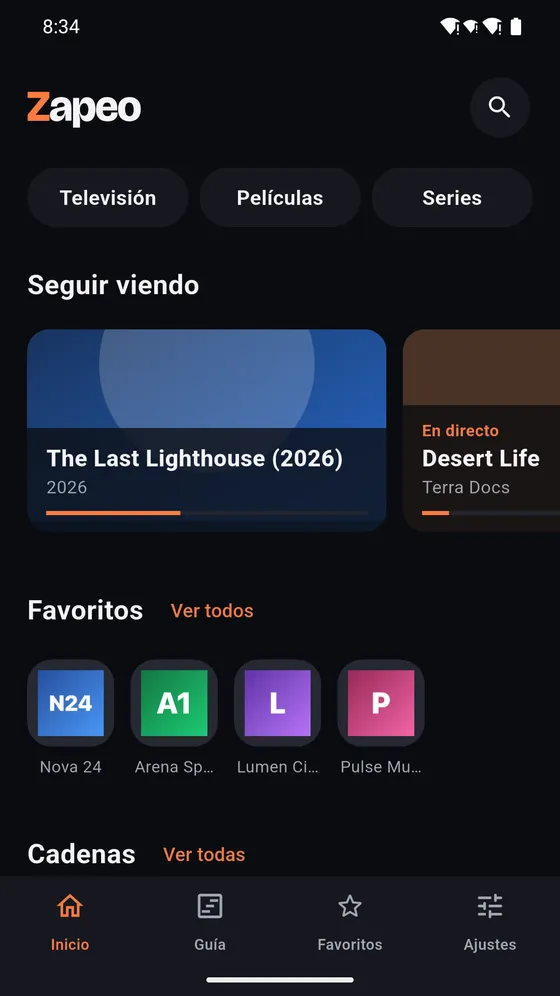
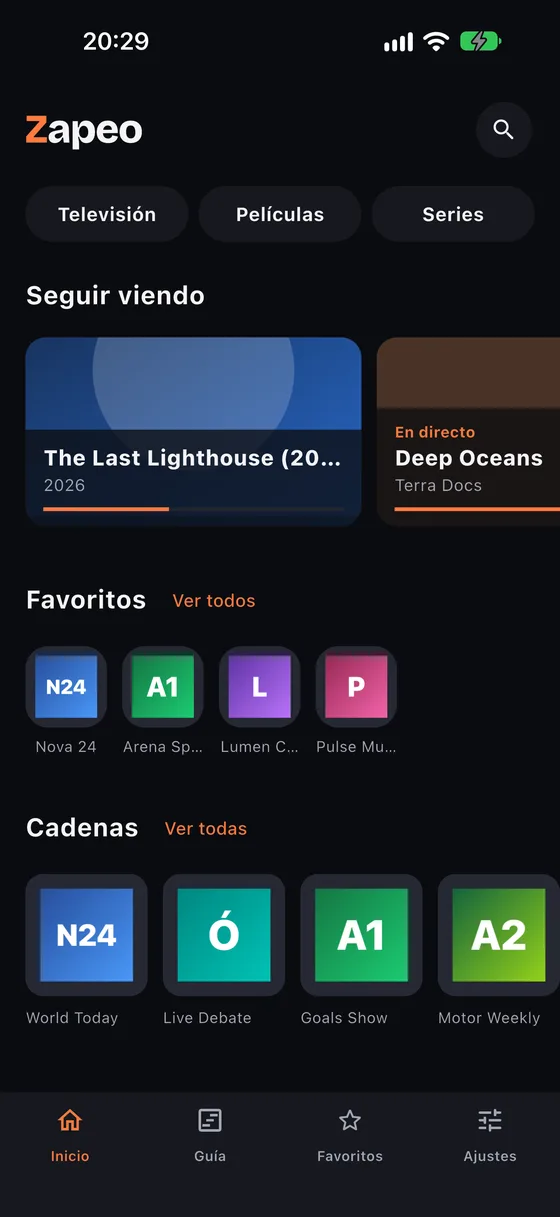
Web v5: TuMenu y Zapeo con tres iPhones como el resto
Claude-Session: https://claude.ai/code/session_01Grhb6WkHUL6FTYPLyKXzyr

diff --git a/index.html b/index.html
@@ -246,10 +246,12 @@
                         <a href="https://play.google.com/store/apps/details?id=com.RD.tumenu" target="_blank" rel="noopener">Google Play</a>
                     </p>
                 </div>
-                <div class="app-moviles app-moviles-uno">
+                <div class="app-moviles app-moviles-tumenu">
+                    <div class="movil aparece"><div class="movil-pantalla"><img src="img/apps/tumenu-1.webp" width="540" height="960" loading="lazy" alt="TuMenu: tu menú del día, en un solo WhatsApp"></div></div>
                     <div class="movil aparece"><div class="movil-pantalla">
                         <video src="img/apps/tumenu-demo.mp4" poster="img/apps/tumenu-poster.webp" width="540" height="960" muted loop playsinline preload="none" data-autoplay aria-label="Vídeo: un menú enviado por WhatsApp se convierte en una imagen profesional"></video>
                     </div></div>
+                    <div class="movil aparece"><div class="movil-pantalla"><img src="img/apps/tumenu-3.webp" width="540" height="960" loading="lazy" alt="TuMenu: el menú del día convertido en una imagen profesional"></div></div>
                 </div>
             </article>
 
@@ -365,18 +367,20 @@
                 <p class="aparece"><span lang="es">Lo que estoy subiendo a las tiendas ahora mismo.</span><span lang="en">What I'm shipping to the stores right now.</span></p>
             </div>
             <div class="taller-rejilla">
-                <article class="obra obra-doble aparece" id="zapeo" style="--tono:#8a4a32">
-                    <div class="obra-texto">
+                <article class="app" id="zapeo" style="--tono:#8a4a32">
+                    <div class="app-texto aparece">
                         <div class="app-cabeza">
                             <img src="img/apps/zapeo-icono.webp" width="96" height="96" alt="">
                             <div><h3>Zapeo</h3><p class="app-meta"><span class="punto punto-beta" aria-hidden="true"></span><span lang="es">Llegando a App Store y Google Play</span><span lang="en">Coming to the App Store and Google Play</span></p></div>
                         </div>
                         <p class="app-lead"><span lang="es">Todos tus contenidos multimedia en una app, en móvil, tablet, ordenador y TV.</span><span lang="en">All your multimedia content in one app, on phone, tablet, desktop and TV.</span></p>
+                        <p class="app-dato"><span lang="es">Sin cuentas, sin analítica y sin publicidad, con un motor de vídeo propio.</span><span lang="en">No accounts, no analytics and no ads, with its own video engine.</span></p>
                         <ul class="pila"><li>Flutter</li><li>media_kit</li><li>libmpv</li></ul>
                     </div>
-                    <div class="obra-moviles">
-                        <div class="movil movil-ancho"><div class="movil-pantalla"><img src="img/apps/zapeo-1.webp" width="560" height="996" loading="lazy" alt="Zapeo: inicio con seguir viendo, favoritos y canales"></div></div>
-                        <div class="movil movil-ancho"><div class="movil-pantalla"><img src="img/apps/zapeo-4.webp" width="560" height="996" loading="lazy" alt="Zapeo: guía de programación por horas"></div></div>
+                    <div class="app-moviles">
+                        <div class="movil aparece"><div class="movil-pantalla"><img src="img/apps/zapeo-1.webp" width="560" height="1217" loading="lazy" alt="Zapeo: inicio con seguir viendo, favoritos y canales"></div></div>
+                        <div class="movil aparece"><div class="movil-pantalla"><img src="img/apps/zapeo-2.webp" width="560" height="1217" loading="lazy" alt="Zapeo: catálogo de películas"></div></div>
+                        <div class="movil aparece"><div class="movil-pantalla"><img src="img/apps/zapeo-4.webp" width="560" height="1217" loading="lazy" alt="Zapeo: guía de programación por horas"></div></div>
                     </div>
                 </article>
                 <article class="obra aparece" id="runclap" style="--tono:#b8452e">

diff --git a/css/estilo.css b/css/estilo.css
@@ -373,7 +373,7 @@ main > .asistente { padding-block: 0 clamp(56px, 8vw, 104px); }
     background: #050506; /* taste-skill-ignore: marco del móvil */
 }
 .app-moviles .movil:nth-child(2) { transform: translateY(-20px); }
-.app-moviles-uno .movil { flex-basis: 250px; }
+.app-moviles-tumenu .movil-pantalla { aspect-ratio: 9 / 16; }
 .movil-pantalla {
     position: relative; overflow: hidden; border-radius: 28px;
     aspect-ratio: 9 / 19.5; max-width: 100%; background: #000; /* taste-skill-ignore */
@@ -389,7 +389,6 @@ main > .asistente { padding-block: 0 clamp(56px, 8vw, 104px); }
     .app-moviles { gap: 8px; }
     .app-moviles .movil { flex: 1 1 0; padding: 4px; border-radius: 20px; }
     .app-moviles .movil-pantalla { border-radius: 16px; }
-    .app-moviles-uno .movil { flex: 0 1 64%; }
     .obra-moviles .movil { padding: 4px; border-radius: 22px; }
     .obra-moviles .movil-pantalla { border-radius: 18px; }
 }
@@ -448,15 +447,12 @@ a.web:hover { background: var(--surface-2); transform: translateY(-4px); }
 
 /* ---------- Taller ---------- */
 .taller-rejilla { display: grid; gap: 16px; grid-template-columns: minmax(0, 1fr); }
-@media (min-width: 960px) { .taller-rejilla { grid-template-columns: minmax(0, 1.5fr) minmax(0, 1fr); } }
+
 .obra {
     display: grid; gap: 28px; align-content: start; min-width: 0;
     padding: clamp(24px, 3.5vw, 40px); border-radius: calc(var(--radio) + 8px); background: var(--surface);
 }
 .obra[style] { background: color-mix(in srgb, var(--tono) 20%, var(--bg)); }
-@media (min-width: 600px) { .obra-doble { grid-template-columns: minmax(0, 1fr) minmax(0, 1fr); align-items: center; } }
-.movil-ancho .movil-pantalla { aspect-ratio: 560 / 996; }
-.obra-moviles .movil { flex-basis: 150px; }
 .punto-beta { background: #f5a524; } /* taste-skill-ignore: estado en pruebas */
 
 /* ---------- Contacto ---------- */
